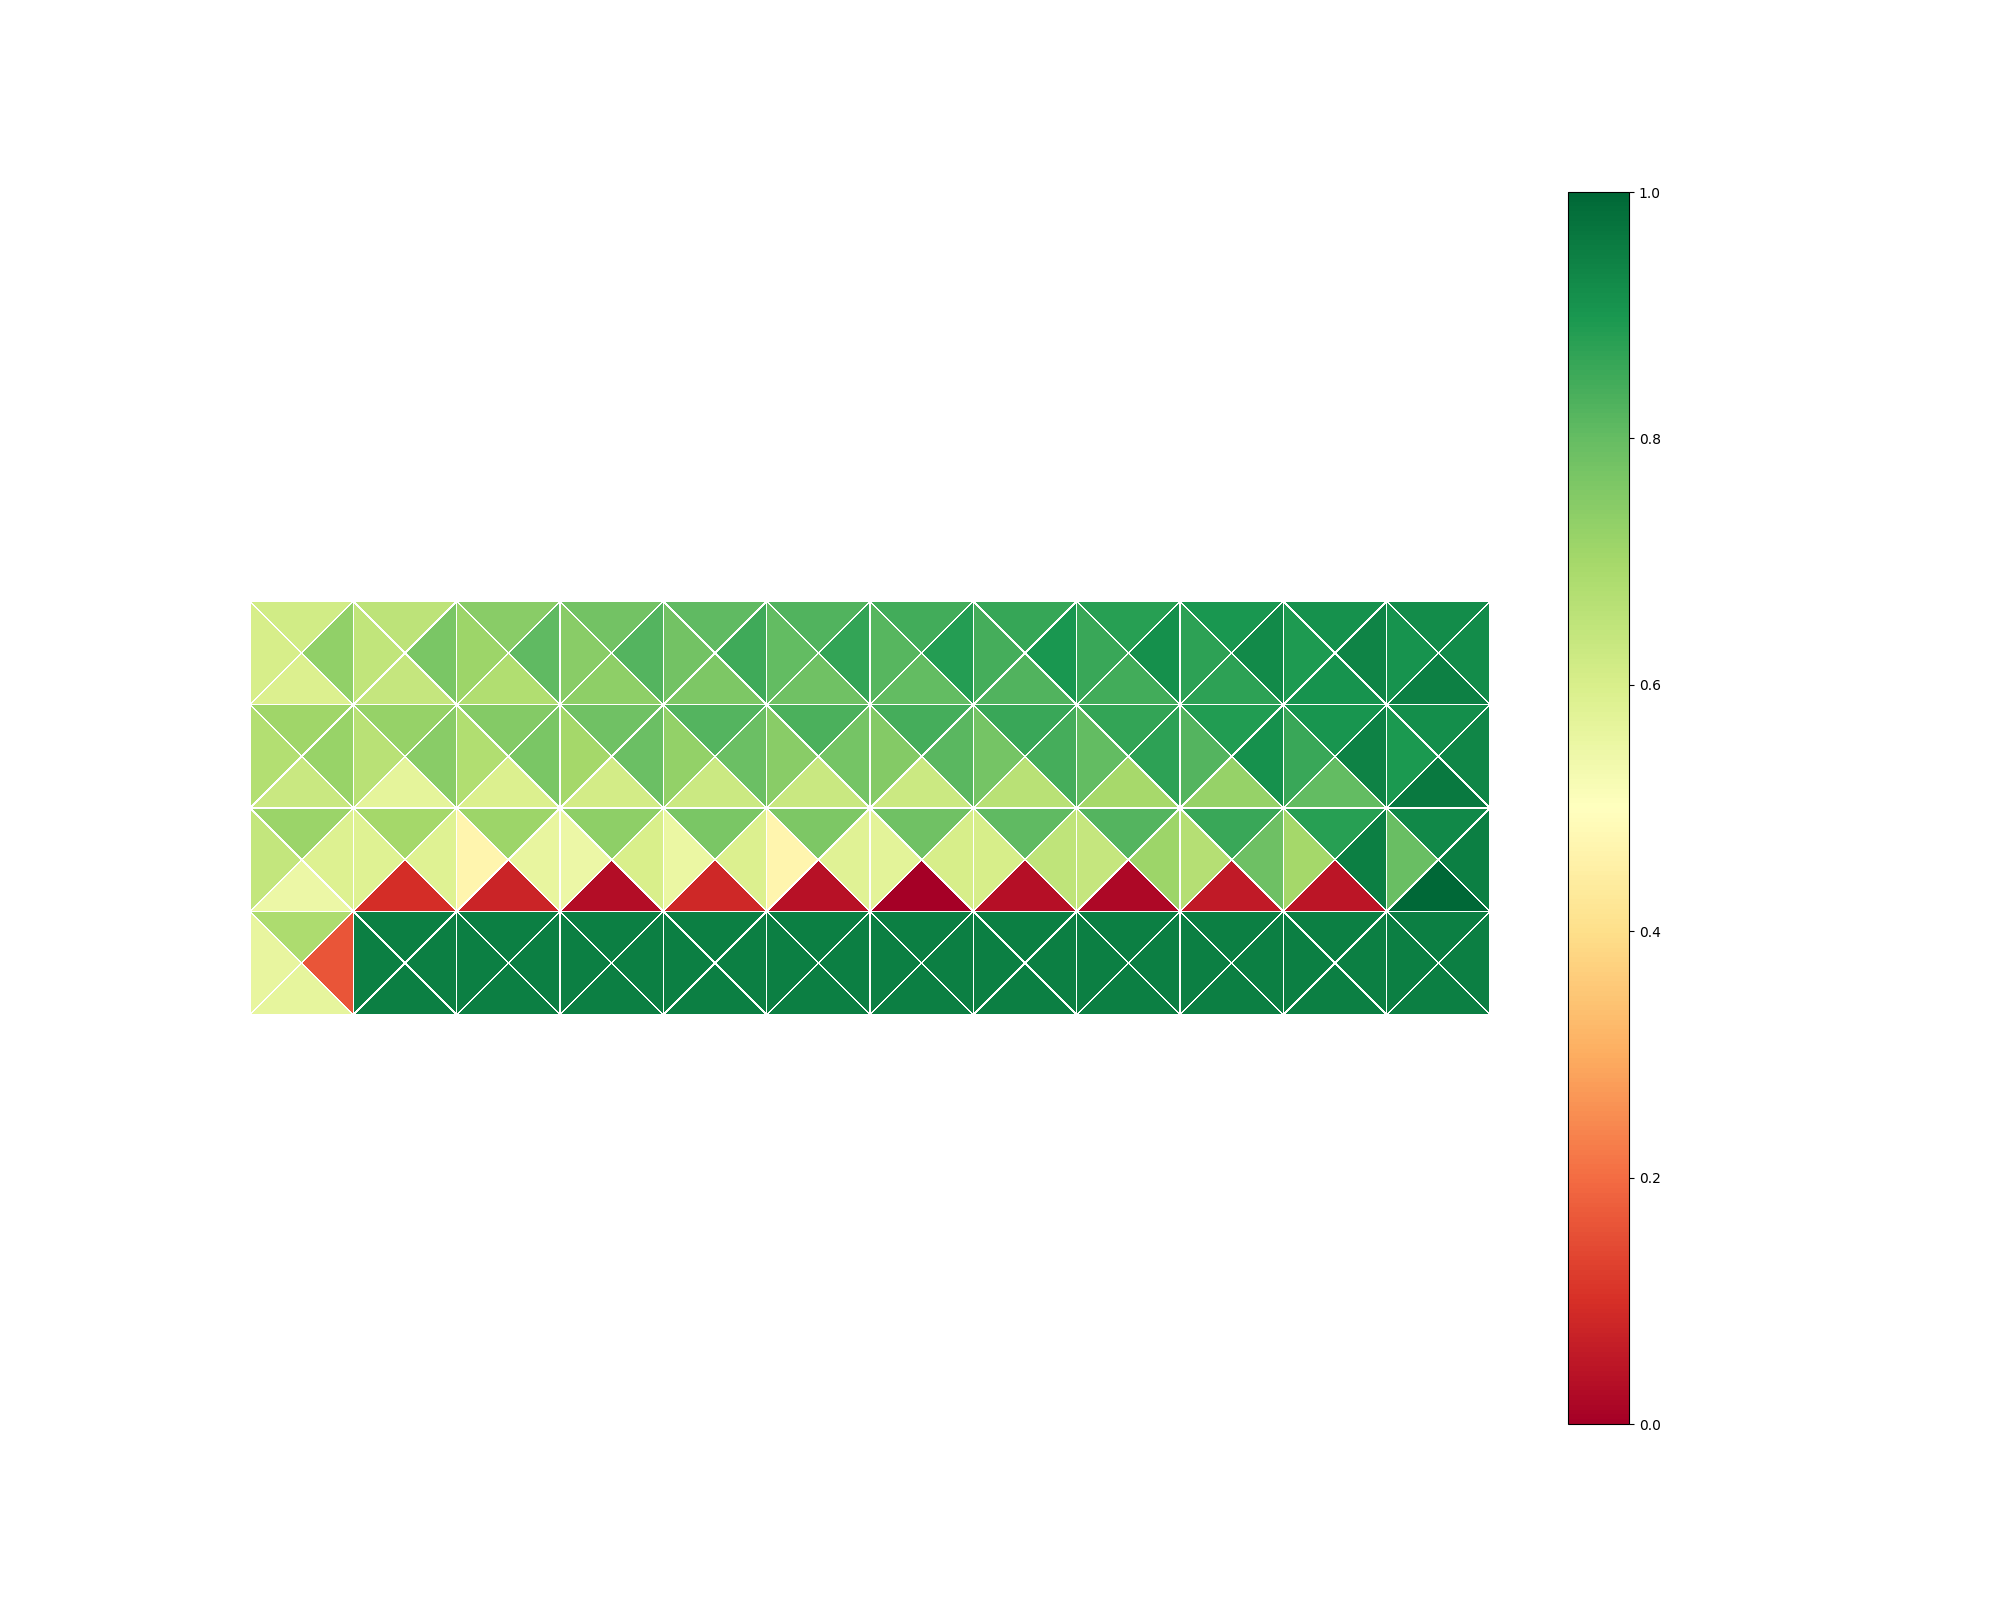
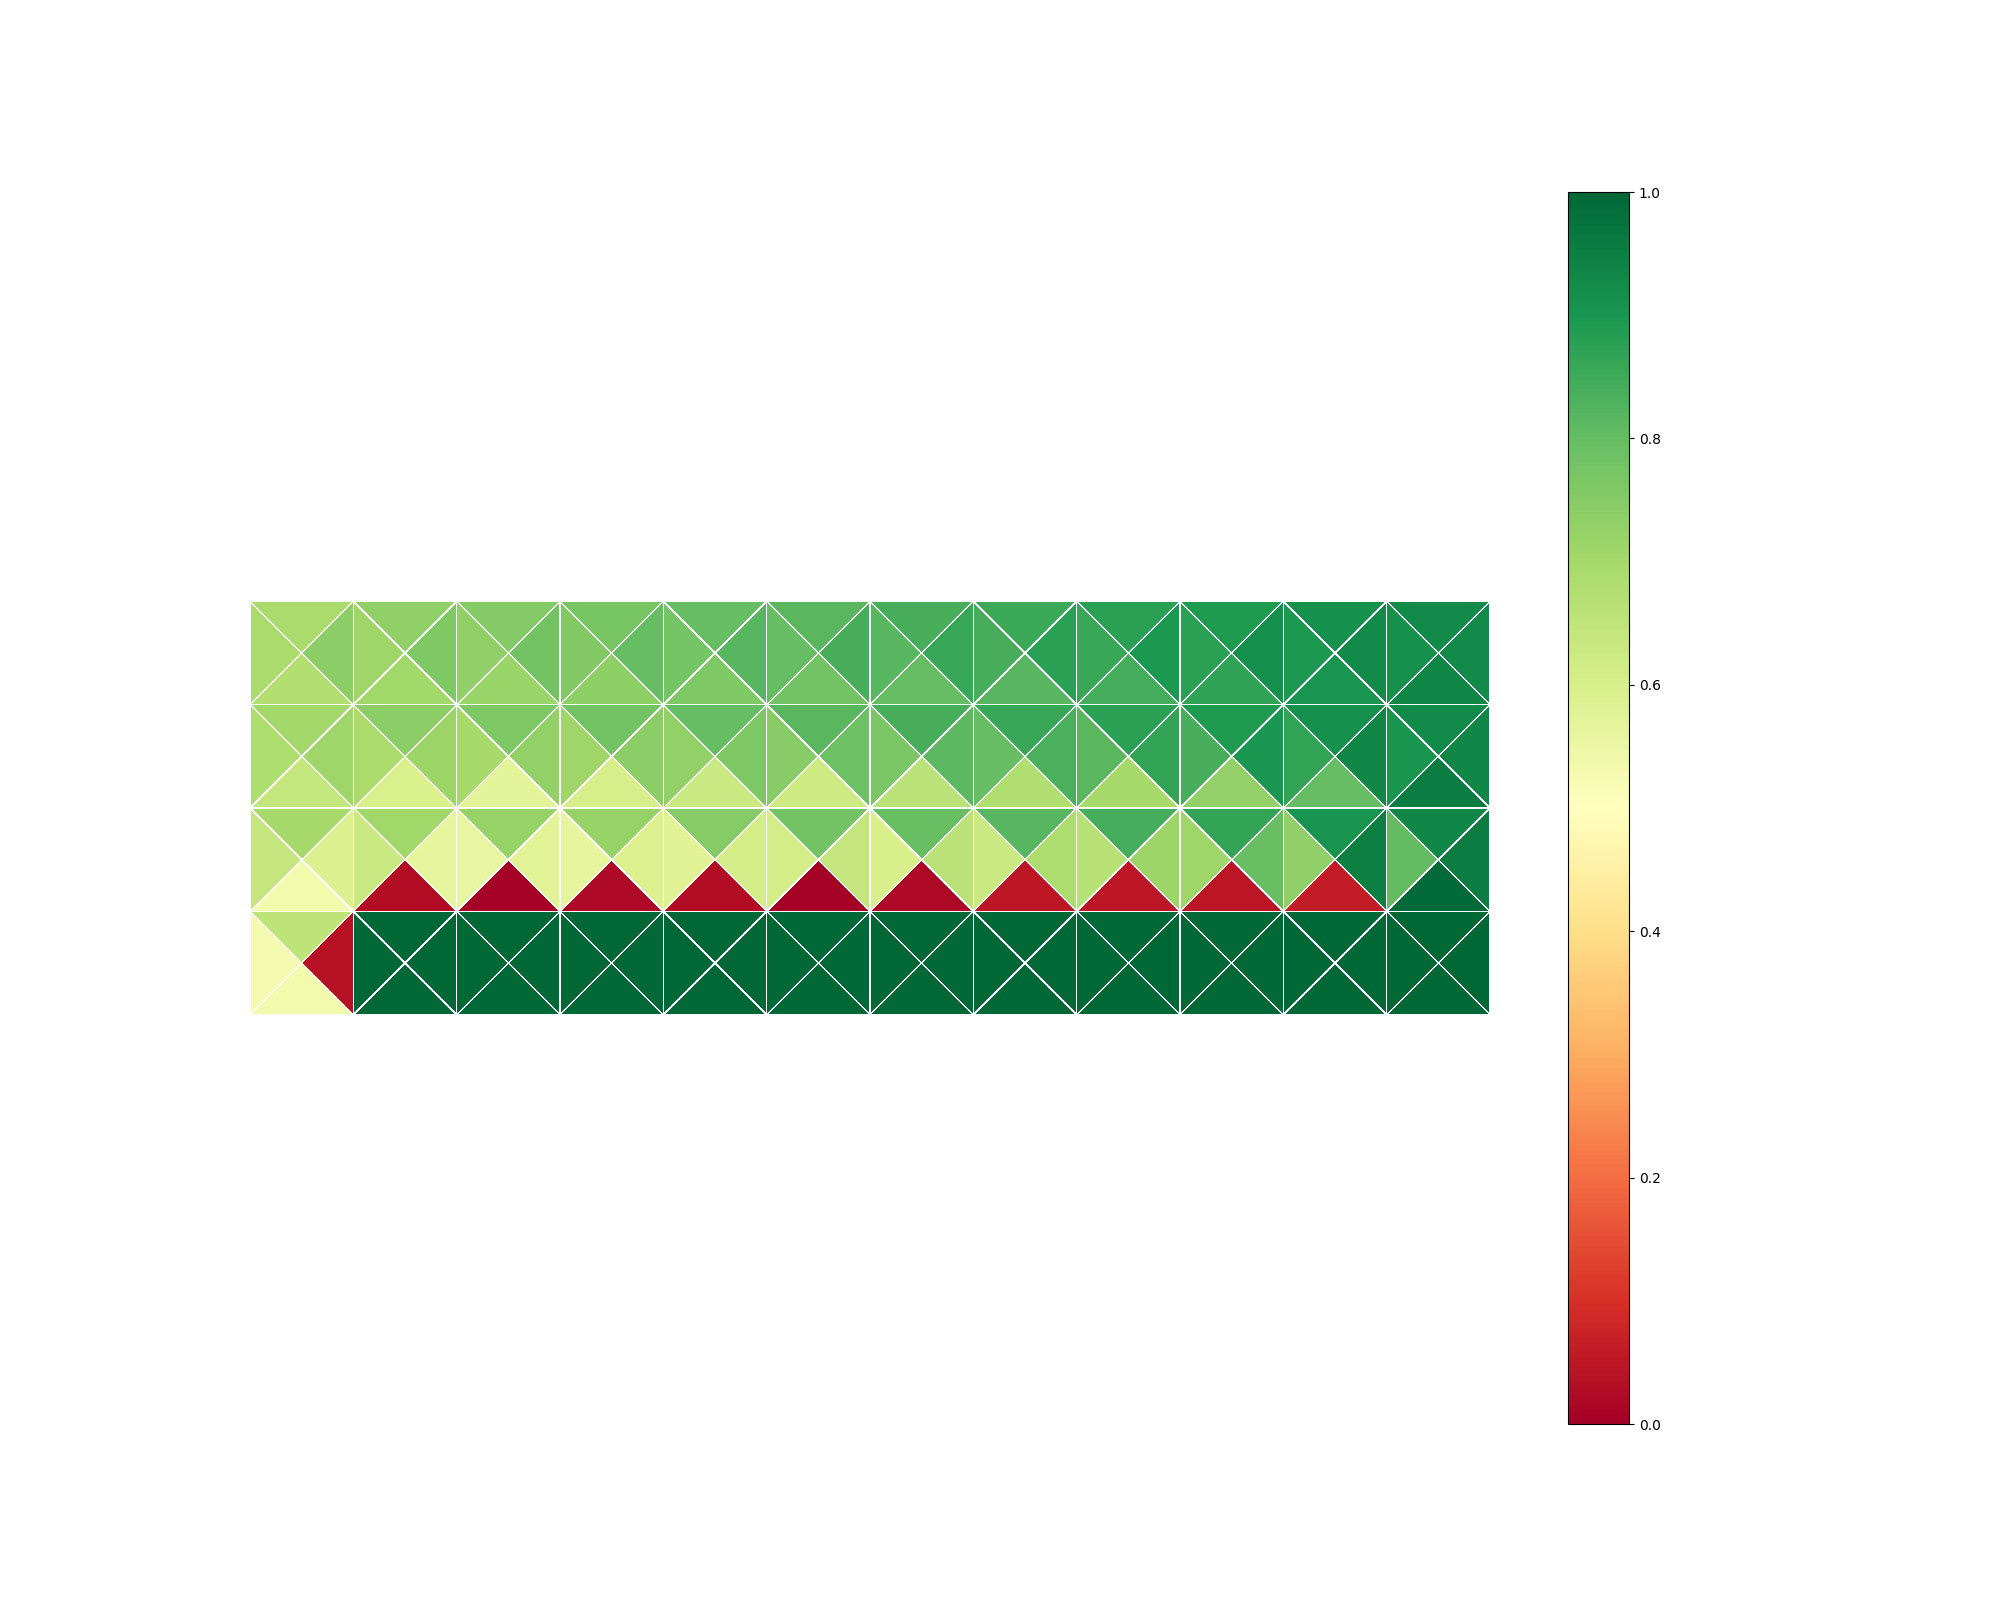
added exploring starts

diff --git a/model-free/monte-carlo/mc-active/active-mc.py b/model-free/monte-carlo/mc-active/active-mc.py
@@ -187,6 +187,19 @@ def calculate_state_value_first_visit(episode_list, state_action_values, running
 
 
 
+def simulate_explore_starts(env):
+    # reset the environment.
+    observation, info = env.reset()
+    # simulate exploring starts
+    for _ in range(50):
+        action = np.random.randint(0, high=4, dtype='int32')
+        new_observation, _, terminated, truncated, _ = env.step(action)
+        observation = new_observation
+        if terminated or truncated: 
+            observation, info = env.reset()
+
+    return observation
+
 def main():
     """
         At each step, the agent records the reward obtained 
@@ -214,7 +227,7 @@ def main():
      ## for each episode:
     for epoch in range(tot_epoch + 1):
         # reset the environment.
-        observation, info = env.reset()
+        observation = simulate_explore_starts(env)
         # save episodes in a list
         episode_list = list()
         # a thousand random actions e-greedy
@@ -257,6 +270,7 @@ def main():
 
     ## play the game
     print("************ Playing game with optimal policies ************")
+    print(policy)
     play_game(policy)
 
 if __name__ == "__main__":
